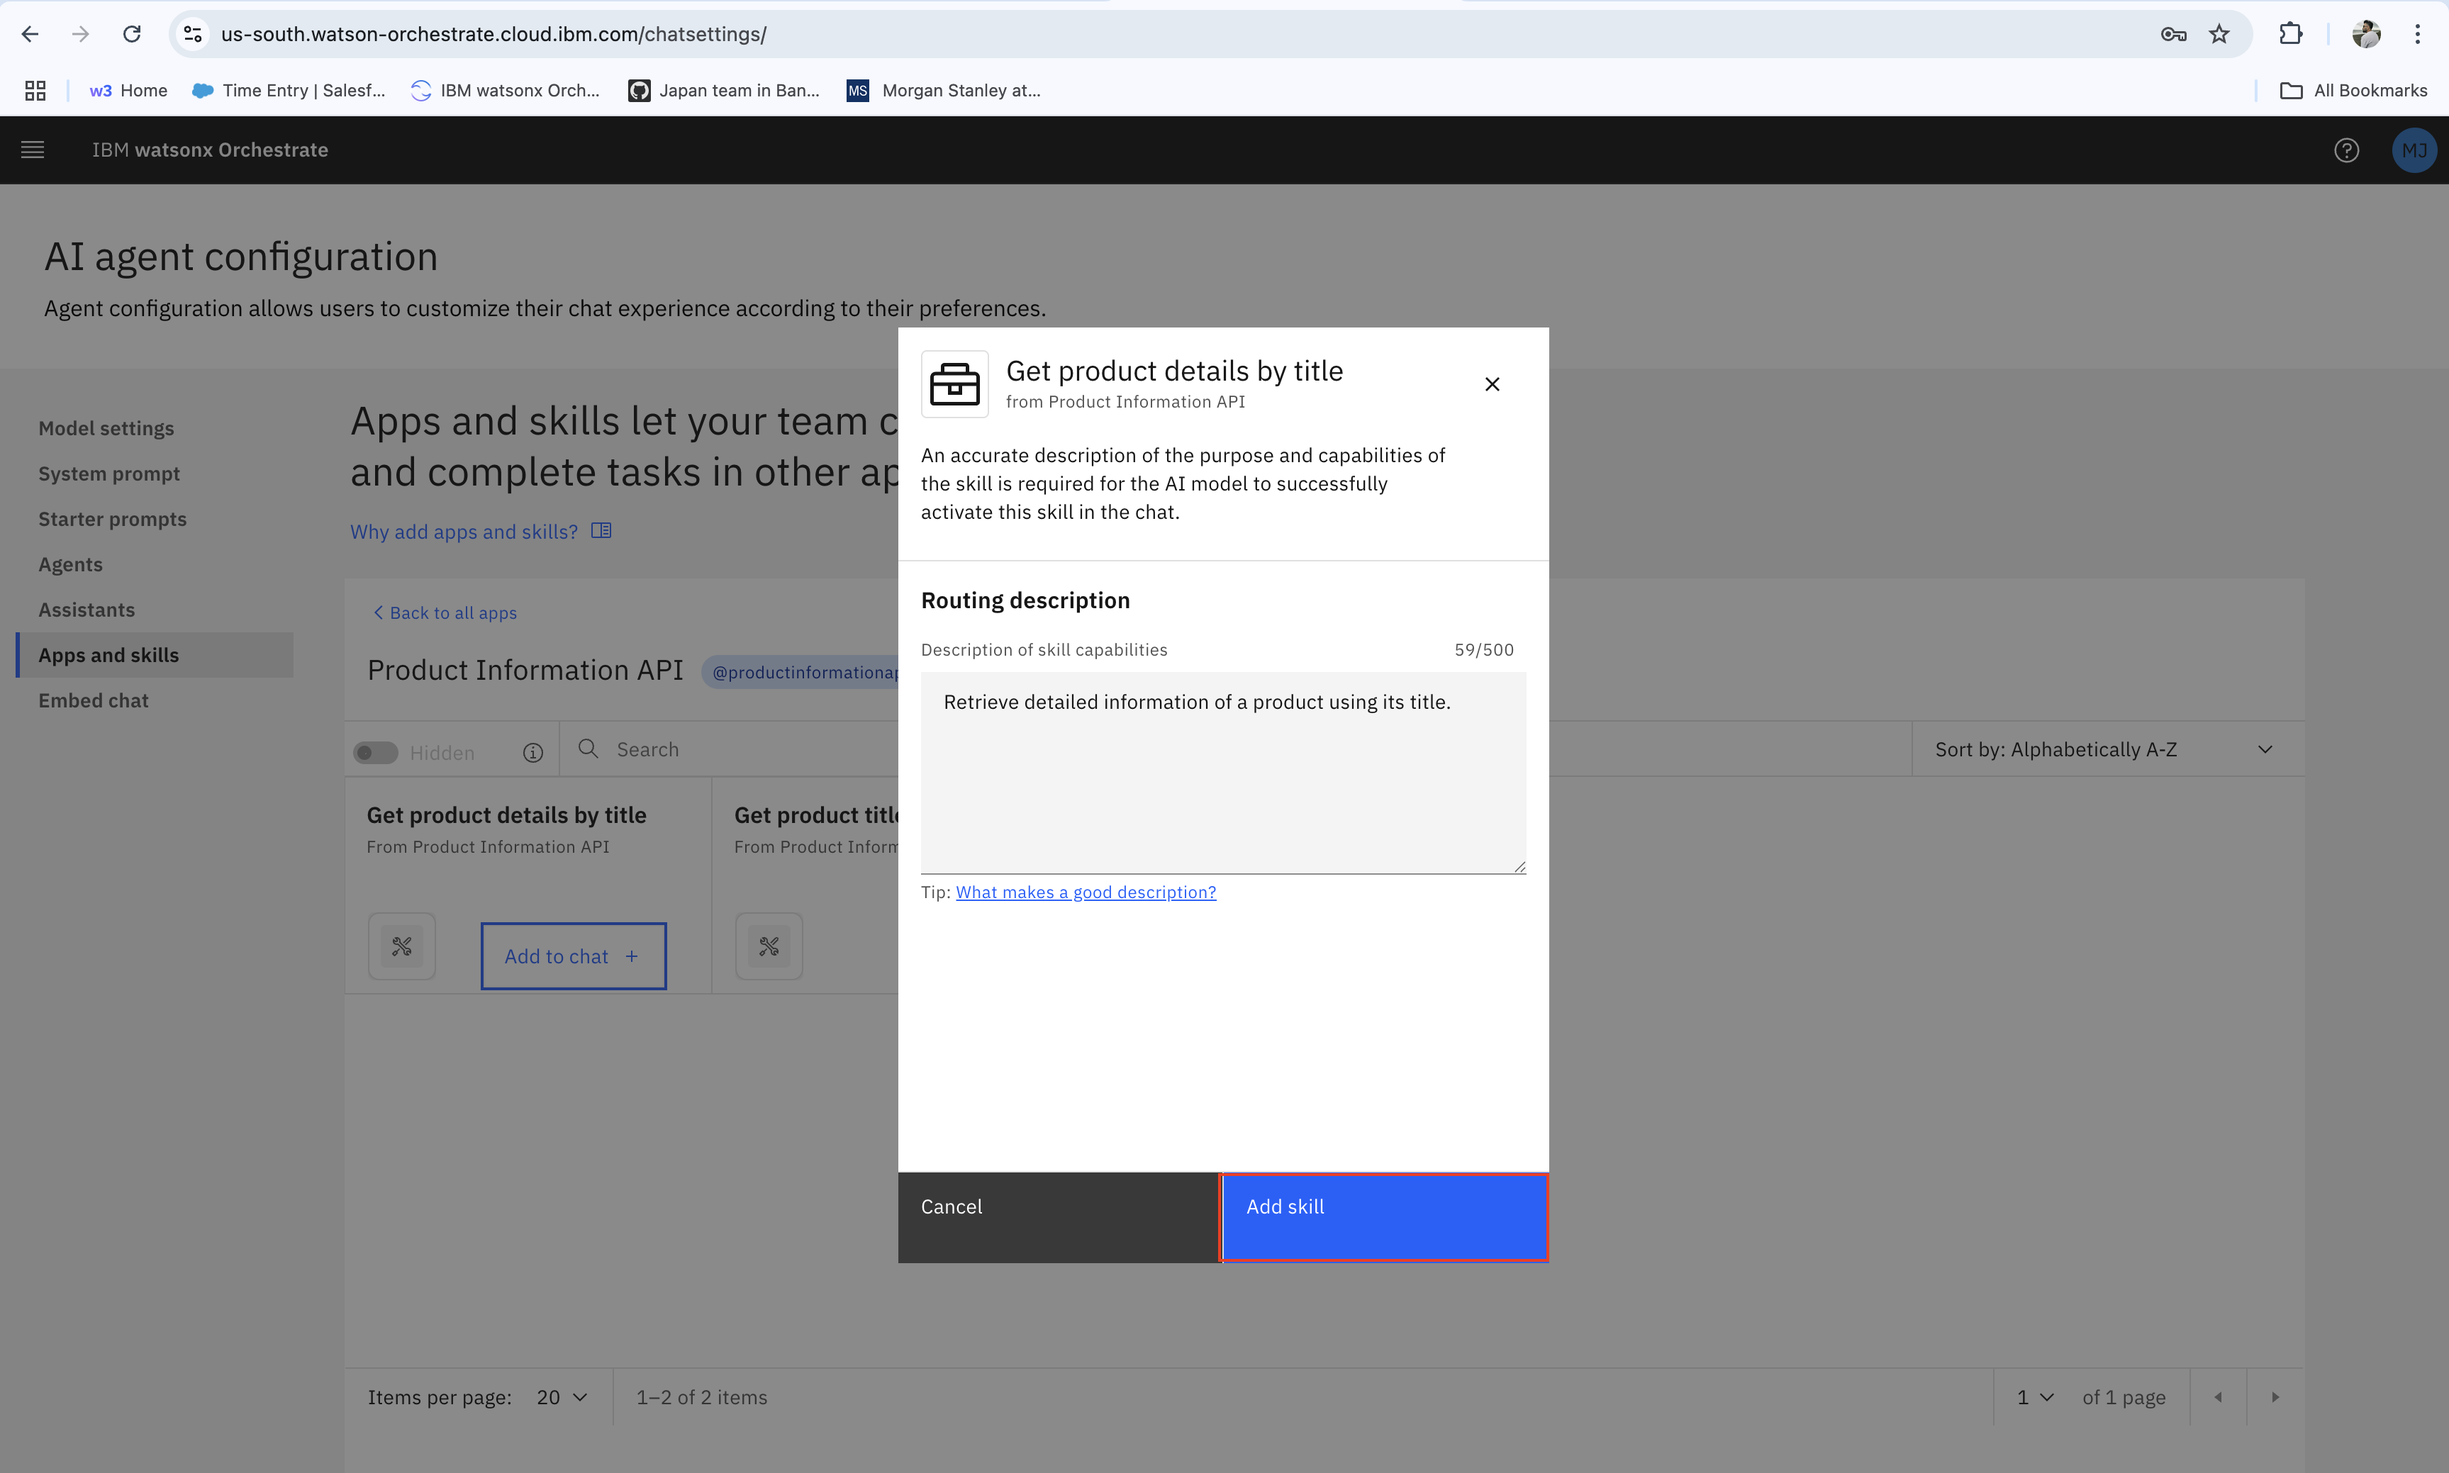
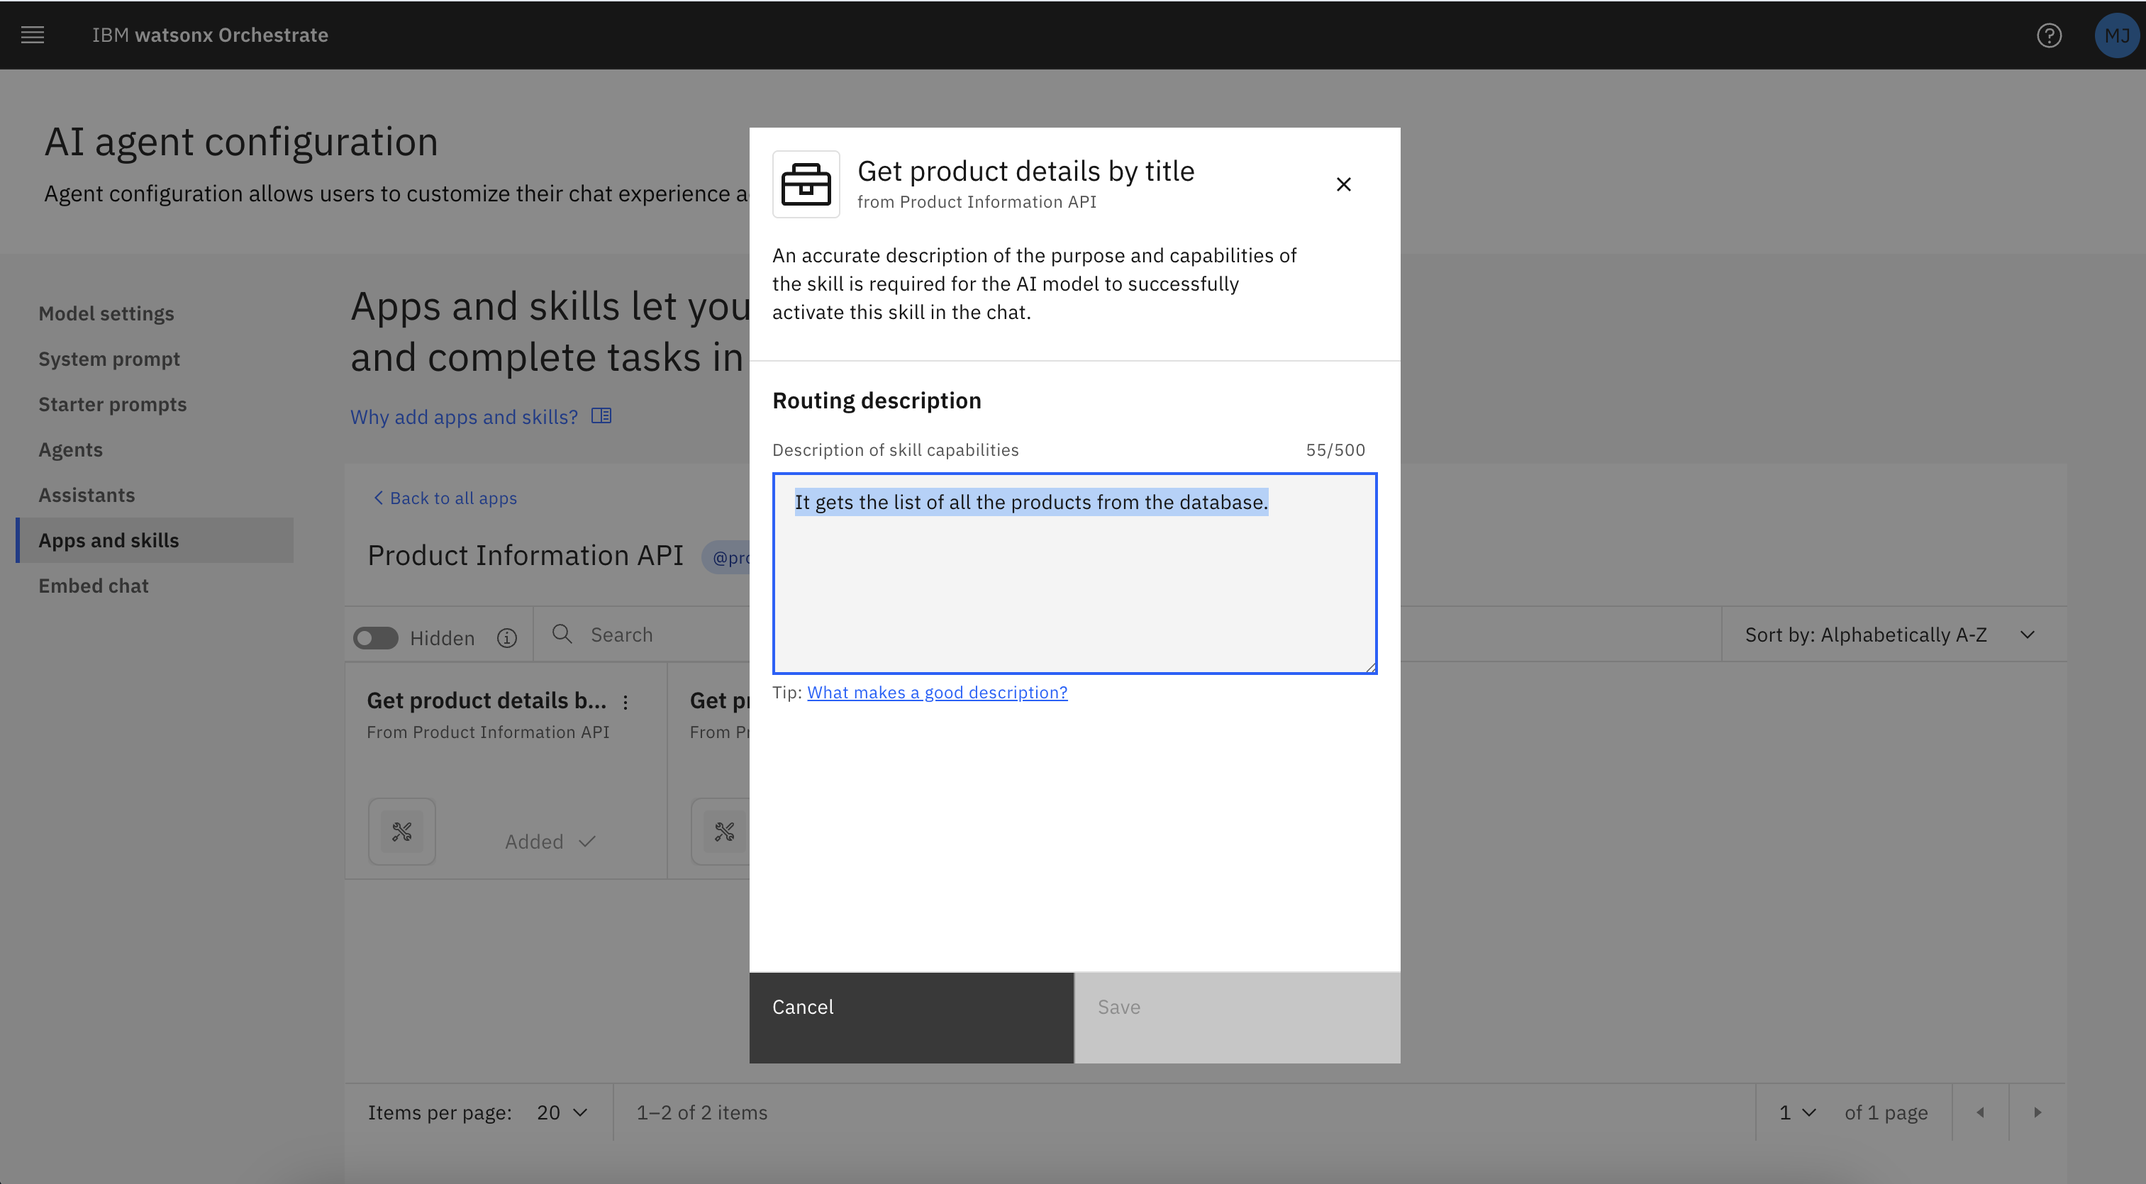
updated the description of both the skill of BA usecase

diff --git a/usecases/business-automation/hands-on-lab-buisness-automation.md b/usecases/business-automation/hands-on-lab-buisness-automation.md
@@ -120,11 +120,11 @@ Here's the corrected version with proper grammar and clarity:
 27. First, add the **Get product details by title** skill by clicking **Add to Chat**.  
    ![First Skills](assets/add_chat_1.png)  
 
-28. Do not change the description; keep it as shown in the image below, then click **Add Skill**.  
+28. Change the description to "It gets the list of all the products from the database," as shown in the image below, then click **Add Skill**.  
    ![First Skills](assets/description_skill_1.png)  
 
-29. Next, add the **Get product titles** skill to the chat.  
-   ![Second Skills](assets/add_chat_2.png)  
+29. Next, add the **Get product titles** skill to the chat. Change the description to "It gets the information or titles of the product from the database."as shown in the image below, then click **Add Skill**.
+   ![Second Skills](assets/description_skill_2.png)  
 
 30. Once both skills are connected, it will look like this:  
    ![Chat Connected](assets/chat_connect.png)  
